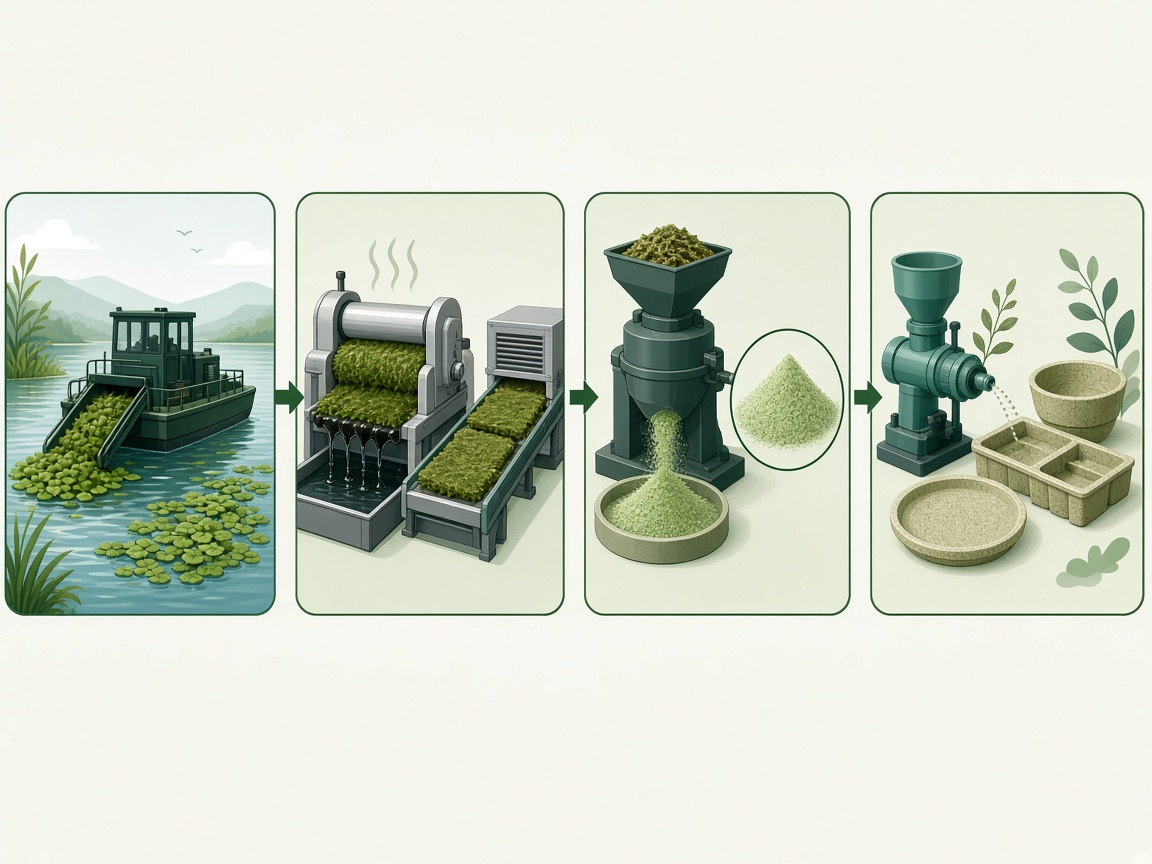
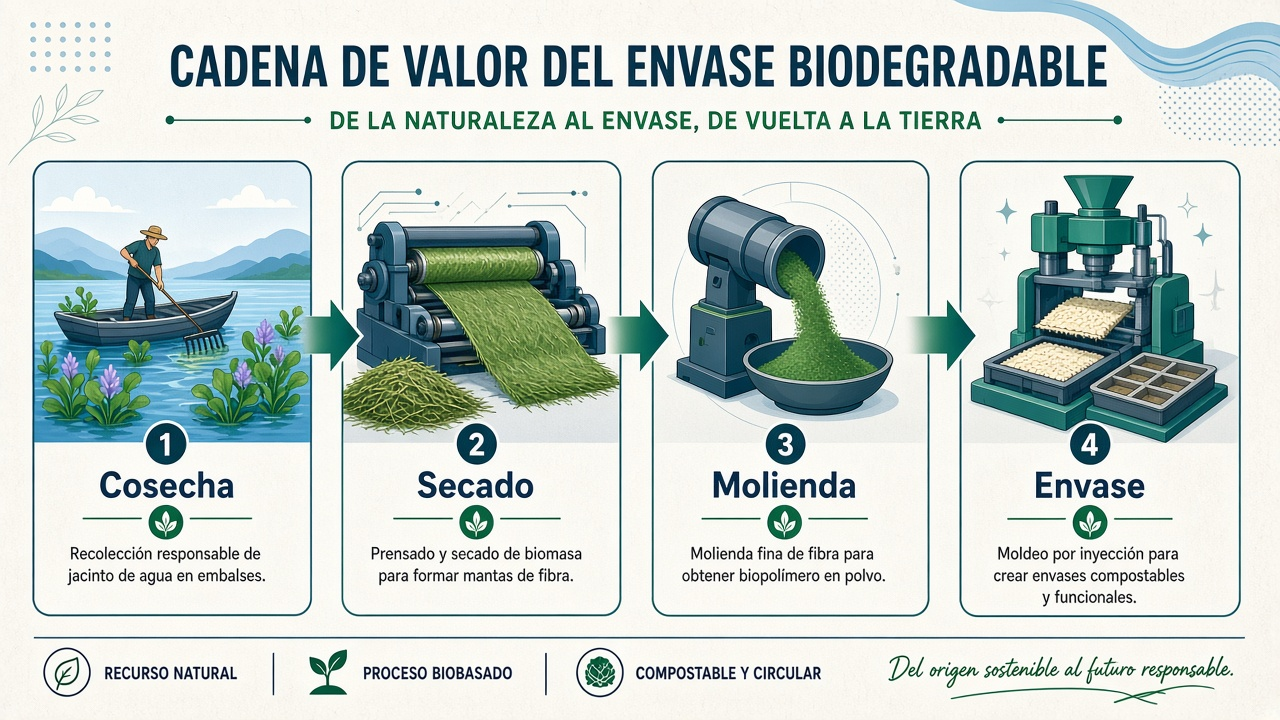
Renovar infografía de cadena de valor con estilo editorial
- Nueva ilustración plana premium con pasos Cosecha a Envase
- object-contain y fondo suave para lectura en móvil

diff --git a/src/components/LandingSections.tsx b/src/components/LandingSections.tsx
@@ -135,7 +135,8 @@ export function ProcessSection() {
         <Reveal className="lg:col-span-2">
           <StockImage
             photo={media.process}
-            className="aspect-[4/3] w-full rounded-2xl shadow-md ring-1 ring-slate-200"
+            className="aspect-[4/3] w-full rounded-2xl bg-gradient-to-br from-sky-50/80 to-emerald-50/40 shadow-md ring-1 ring-slate-200 sm:aspect-[16/11]"
+            imageClassName="object-contain object-center p-1 sm:p-2"
             sizes="(max-width: 1024px) 100vw, 360px"
           />
         </Reveal>

diff --git a/src/content/media.ts b/src/content/media.ts
@@ -30,7 +30,7 @@ export const media = {
   },
   process: {
     src: "/illustrations/cadena-valor-resumen.jpg",
-    alt: "Ilustración conceptual de la cadena de valor: cosecha, secado, molienda y producto",
+    alt: "Infografía de la cadena de valor del envase biodegradable: cosecha en embalse, secado de biomasa, molienda y conformado de envases compostables",
     credit: "Ilustración IA (referencia conceptual)",
     creditUrl: "#proceso",
   },
